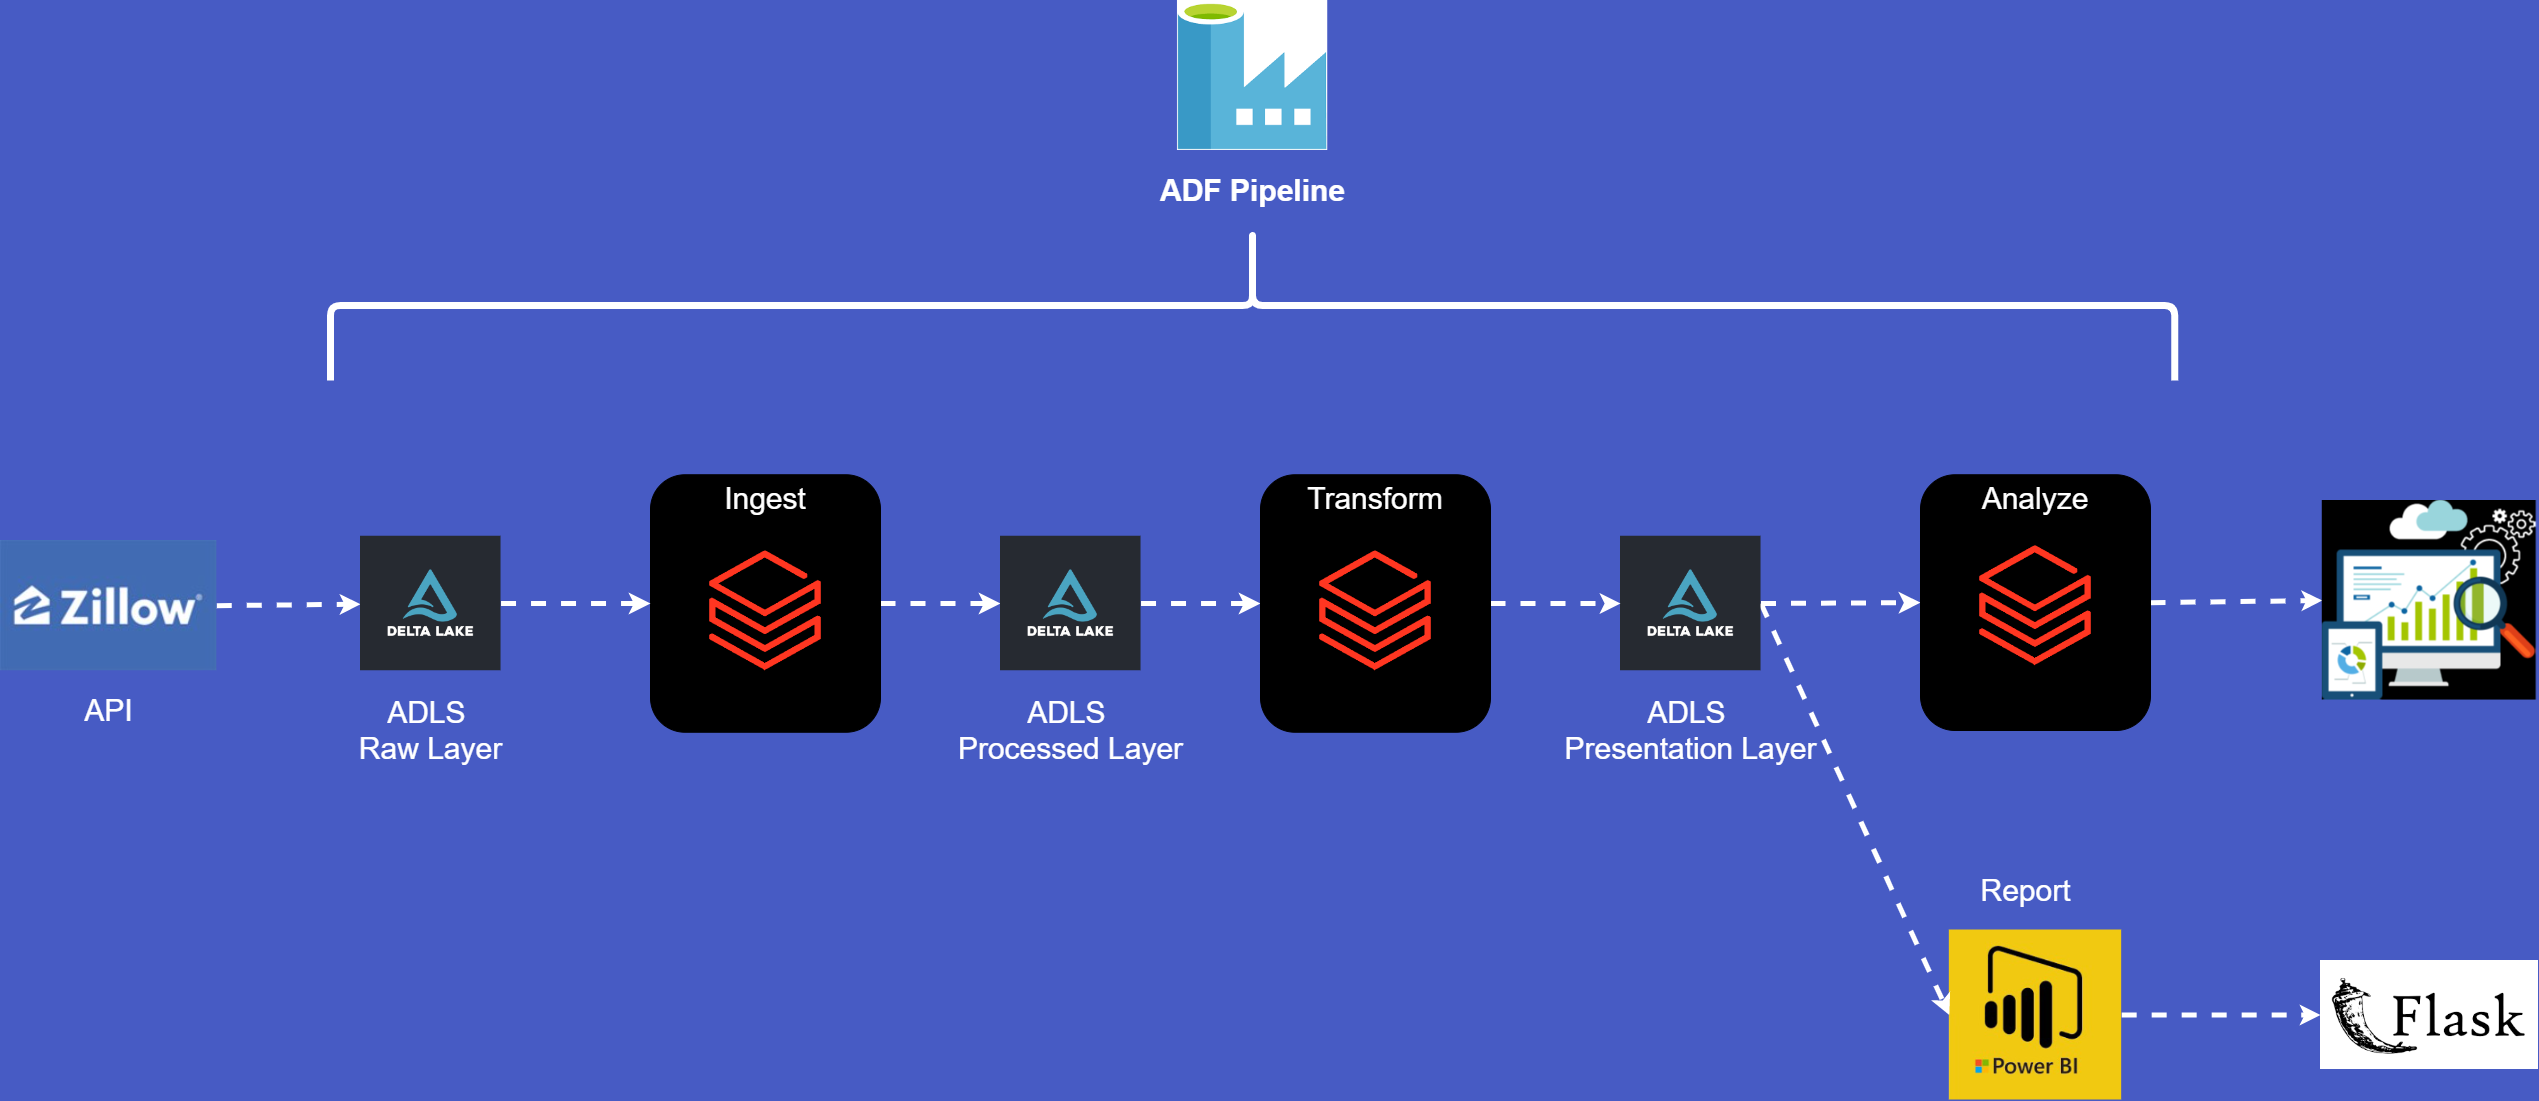
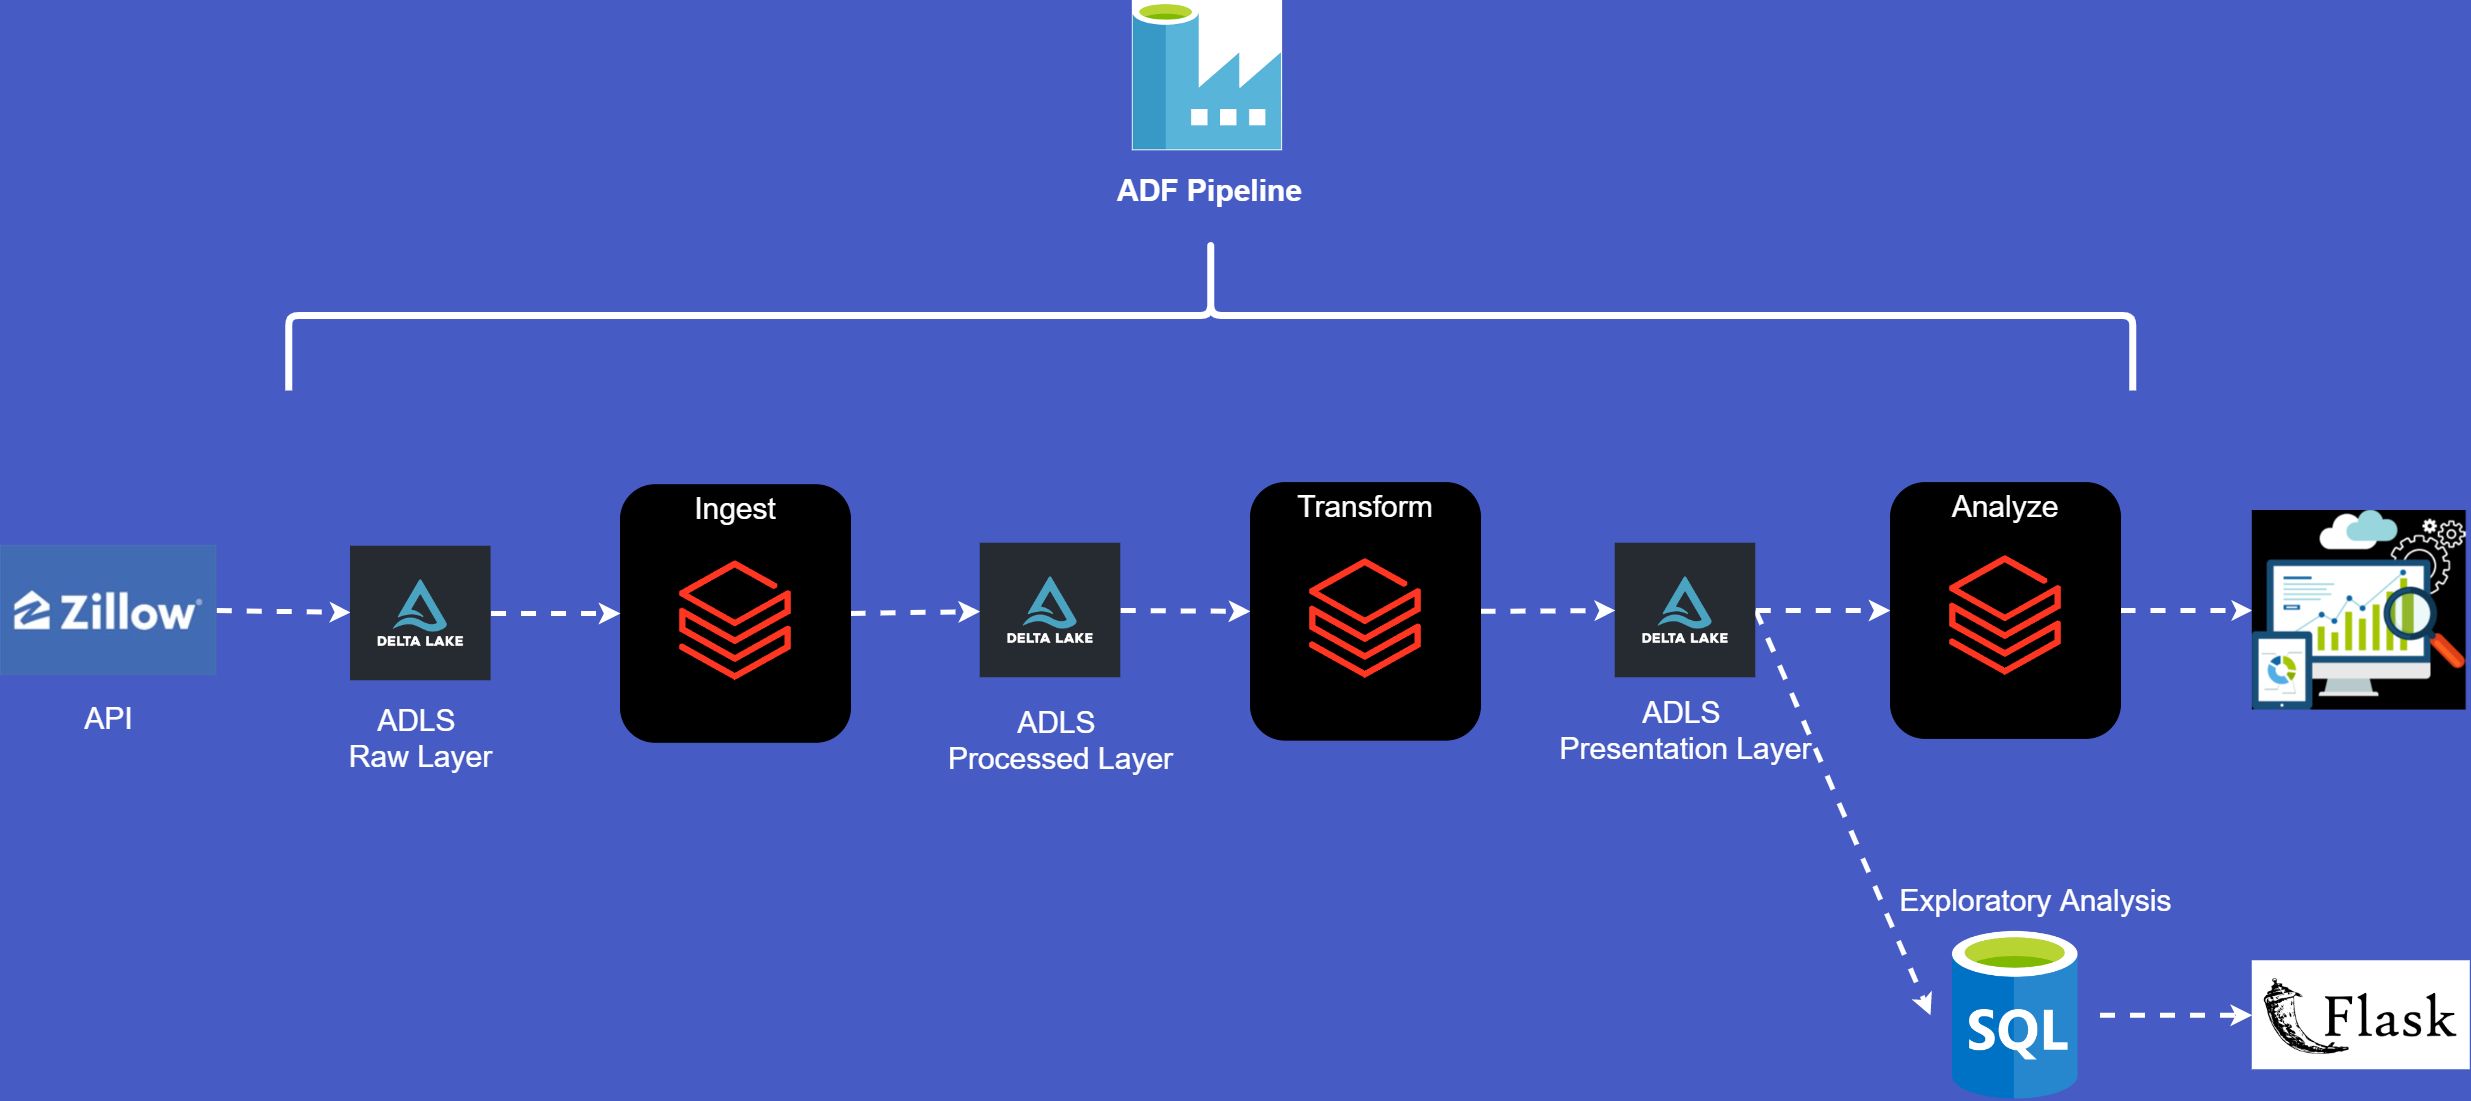
added etl image

diff --git a/databricks_notebooks/analysis/load_into_sql_db.py b/databricks_notebooks/analysis/load_into_sql_db.py
@@ -1,0 +1,42 @@
+# Databricks notebook source
+# MAGIC %run "../includes/configuration"
+
+# COMMAND ----------
+
+jdbc_hostname = dbutils.secrets.get(scope="realestate-scope", key="realestate-app-jdbc-hostname")
+jdbc_port = dbutils.secrets.get(scope="realestate-scope", key="realestate-app-jdbc-port")
+jdbc_database = dbutils.secrets.get(scope="realestate-scope", key="realestate-app-jdbc-database")
+jdbc_user = dbutils.secrets.get(scope="realestate-scope", key="realestate-app-jdbc-user")
+jdbc_password = dbutils.secrets.get(scope="realestate-scope", key="realestate-app-jdbc-password")
+properties = {
+    "user": f"{jdbc_user}",
+    "password": f"{jdbc_password}",
+    "driver": "com.microsoft.sqlserver.jdbc.SQLServerDriver"
+}
+    
+# "driver": "org.postgresql.Driver" 
+
+# COMMAND ----------
+
+url = f"jdbc:sqlserver://{jdbc_hostname}:{jdbc_port};database={jdbc_database};user={properties['user']}@realestate-etl-server;password={properties['password']};encrypt=true;trustServerCertificate=false;hostNameInCertificate=*.database.windows.net;loginTimeout=30;"
+
+# COMMAND ----------
+
+df = spark.sql("SELECT * FROM re_presentation.final_results_for_viz")
+
+# COMMAND ----------
+
+from pyspark.sql import DataFrameWriter
+import pandas as pd
+
+# COMMAND ----------
+
+final_df = DataFrameWriter(df)
+
+# COMMAND ----------
+
+final_df.jdbc(url=url, table="results", mode="overwrite", properties=properties)
+
+# COMMAND ----------
+
+
